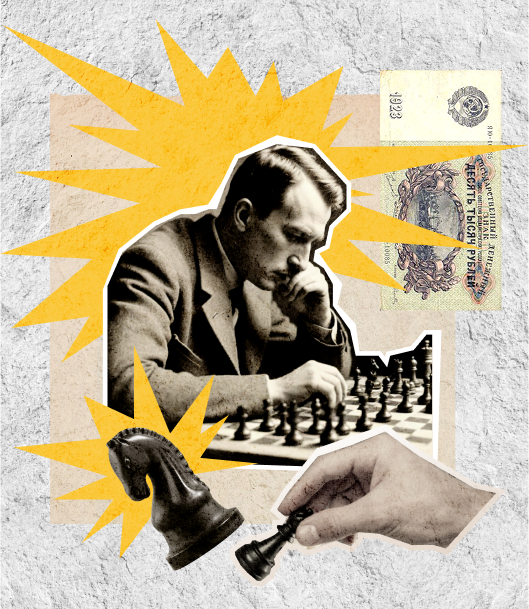
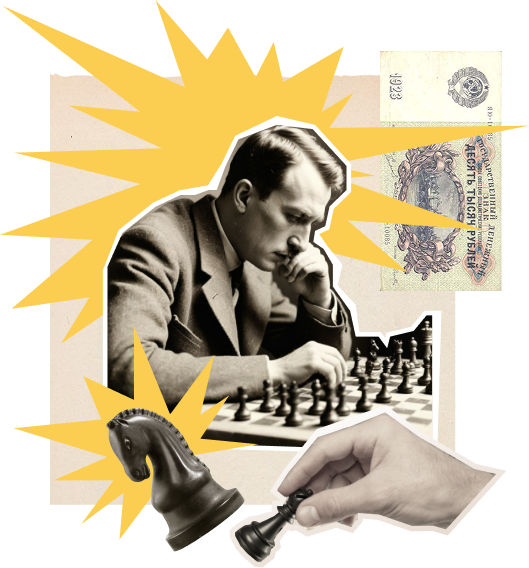
add section event

diff --git a/styles/event.css b/styles/event.css
@@ -1,11 +1,12 @@
 .event {
-    padding: 40px 16px;
+    padding: 40px 0;
     background-color: #fff;
 }
 
 .event__container {
     max-width: 1222px;
     margin: 0 auto;
+    padding: 0 20px;
 }
 
 .event__title {
@@ -29,14 +30,7 @@
 }
 
 .event__poster {
-    width: 100%;
-}
-
-.event__image {
-    width: 100%;
-    height: auto;
-    display: block;
-    border-radius: 16px;
+    text-align: center;
 }
 
 .event__info {
@@ -50,7 +44,7 @@
 }
 
 .event__row {
-    border-bottom: 1px solid #D6D6D6;
+    border-bottom: 2px solid #D6D6D6;
 }
 
 .event__row:last-child {
@@ -69,9 +63,10 @@
 
 .event__label {
     width: 45%;
-    color: #595653;
+    color: #313131;
     font-weight: 400;
     opacity: 0.7;
+    border-right: 2px solid #D6D6D6;
 }
 
 .event__value {
@@ -107,13 +102,9 @@
 }
 
 @media (min-width: 768px) {
-    .event {
-        padding: 60px 40px;
-    }
-
     .event__title {
         font-size: 36px;
-        margin-bottom: 44px;
+        margin-bottom: 50px;
     }
 
     .event__label,
@@ -128,6 +119,7 @@
 
     .event__value {
         width: 60%;
+        padding: 16px;
     }
 
     .event__contact {
@@ -137,27 +129,51 @@
 
 @media (min-width: 1024px) {
     .event {
-        padding: 80px 20px;
+        padding: 64px 0;
+    }
+
+    .event__container {
+        padding: 0;
     }
 
     .event__content {
         flex-direction: row;
-        gap: 50px;
+        gap: 16.5px;
         align-items: flex-start;
     }
 
-    .event__poster {
-        width: 48%;
-        flex-shrink: 0;
+    /* .event__poster {
+        flex: 1 0 calc(474px / 1366px * 100%);
     }
 
     .event__info {
-        width: 52%;
+        flex: 1 0 calc(704px / 1366px * 100%);
+    } */
+
+    .event__content {
+        display: grid;
+        grid-template-columns: minmax(280px, 474px) minmax(300px, 1fr);
+        gap: clamp(16px, 3.22%, 44px);
+        align-items: start;
+    }
+
+    .event__poster {
+        position: relative;
+        margin-left: clamp(-20px, -3vw, -50px);
+        margin-top: clamp(-20px, -3vw, -50px);
+        text-align: start;
+    }
+
+    .event__image {
+        /* width: 100%; */
+        /* height: auto; */
+        /* display: block; */
     }
 
     .event__title {
-        font-size: 54px;
-        margin-bottom: 54px;
+        font-size: 36px;
+        margin-bottom: 60px;
+        padding-top: 27.81px;
     }
 
     .event__title br {
@@ -166,20 +182,11 @@
 
     .event__label {
         width: 45%;
+        font-size: 20px;
     }
 
     .event__value {
         width: 55%;
-    }
-}
-
-@media (min-width: 1440px) {
-    .event {
-        padding: 100px 20px;
-    }
-
-    .event__title {
-        font-size: 60px;
     }
 }
 

diff --git a/index.html b/index.html
@@ -69,14 +69,6 @@
             </section>
             <section class="event">
                 <div class="event__container">
-                    <h2 class="event__title">
-                        И сеанс
-                        <span class="event__title_accent"
-                            >одновременной игры в шахматы</span
-                        >
-                        на 160 досках гроссмейстера О. Бендера
-                    </h2>
-
                     <div class="event__content">
                         <div class="event__poster">
                             <img
@@ -87,6 +79,14 @@
                         </div>
 
                         <div class="event__info">
+                            <h2 class="event__title">
+                                И сеанс
+                                <span class="event__title_accent">
+                                    одновременной игры в&nbspшахматы на 160
+                                    досках
+                                </span>
+                                гроссмейстера О. Бендера
+                            </h2>
                             <table class="event__table">
                                 <tr class="event__row">
                                     <th class="event__label">

diff --git a/styles/tournament.css b/styles/tournament.css
@@ -36,7 +36,6 @@
 @media (min-width: 768px) {
     .tournament {
         gap: 32px;
-        margin-bottom: 50px;
     }
 
     .tournament__text {
@@ -50,8 +49,6 @@
         display: flex;
         gap: 64px;
         align-items: center;
-        max-width: 1222px;
-        margin: 0 auto 60px;
     }
 
     .tournament__text {
@@ -69,10 +66,6 @@
 }
 
 @media (min-width: 1440px) {
-    .tournament {
-        margin-bottom: 80px;
-    }
-
     .tournament__text {
         font-size: 42px;
     }